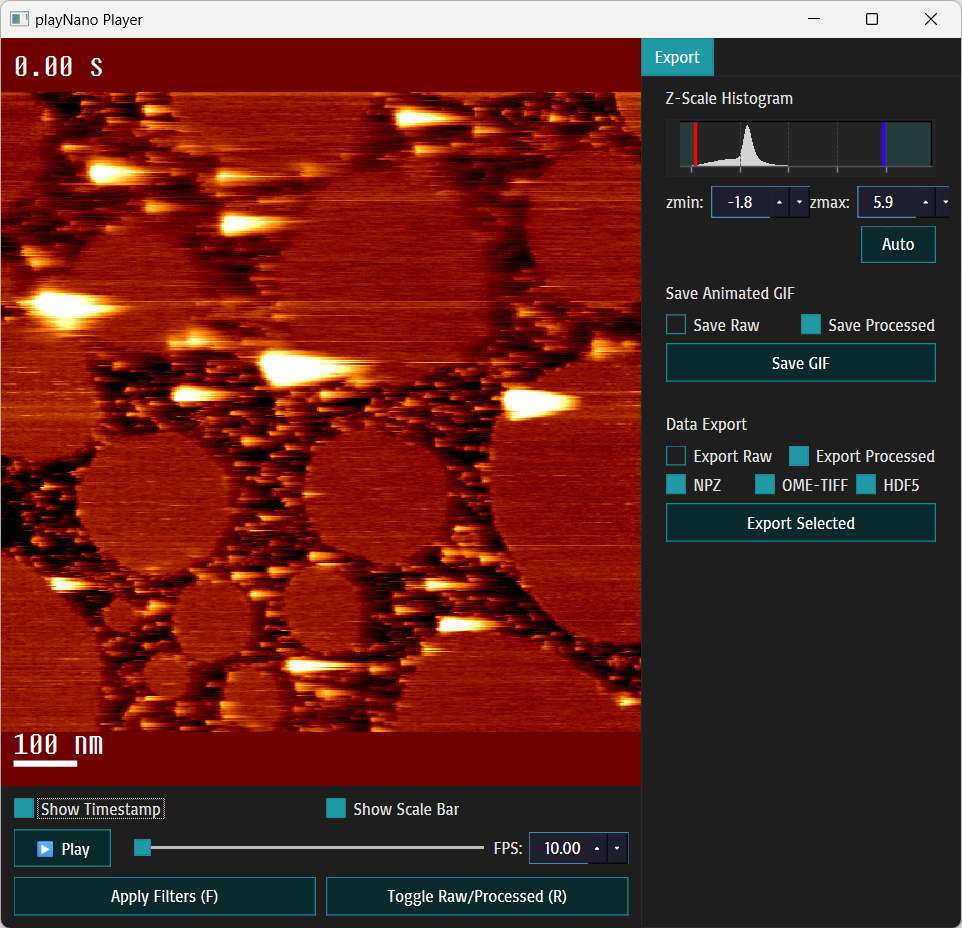
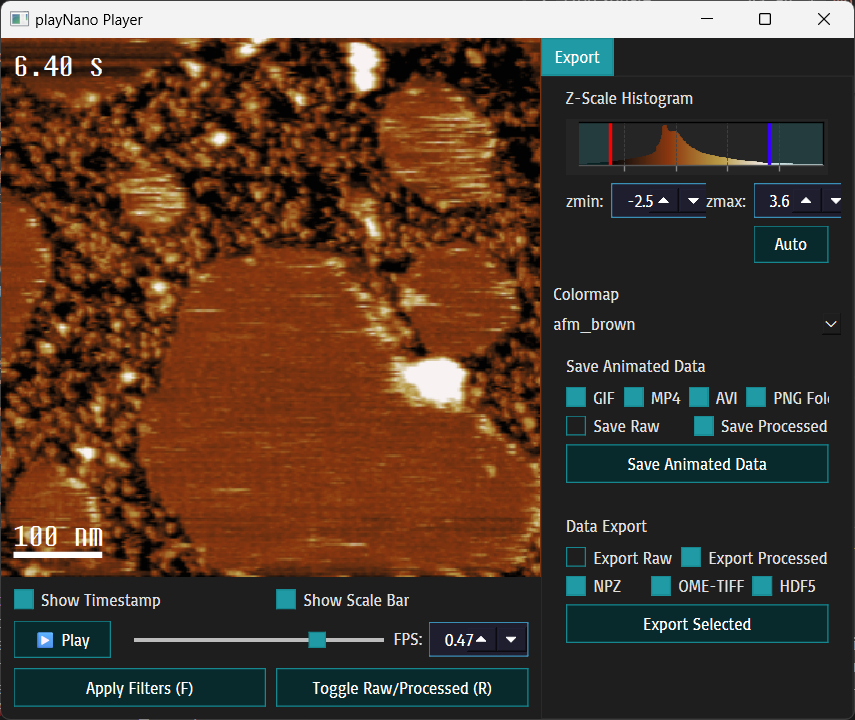
Release v0.4.1.post1 Fix docs, update image links, restore version switcher sidebar.

diff --git a/docs/conf.py b/docs/conf.py
@@ -38,11 +38,25 @@ extensions = [
     "sphinx_multiversion",
 ]
 
+autosummary_generate = True
+exclude_patterns = []
+
 html_theme = "furo"
 templates_path = ["_templates"]
 html_static_path = ["_static"]
 html_js_files = ["version-switcher.js"]
 html_css_files = ["version-switcher.css"]
+
+html_sidebars = {
+    "**": [
+        "sidebar/brand.html",
+        "sidebar/search.html",
+        "sidebar/navigation.html",
+        "sidebar/scroll-start.html",
+        "sidebar/versions.html",
+        "sidebar/scroll-end.html",
+    ]
+}
 
 # Multiversion Selection
 smv_tag_whitelist = r"^v\d+\.\d+.*$"
@@ -62,9 +76,8 @@ def run_apidoc(_):
     module_path = os.path.join(repo_root, "src", "playnano")
 
     # -e: put each module on its own page
-    # --force: overwrite existing files
     # --no-toc: don't overwrite your custom modules.rst
-    main(["-e", "-o", output_path, module_path, "--force", "--no-toc"])
+    main(["-e", "-o", output_path, module_path, "--no-toc"])
 
 
 def _set_title_and_version(app, config):
@@ -171,5 +184,33 @@ def setup(app):
 # ------------------------------------------------------------------------------
 # Nitpick & Intersphinx (Keep your existing full lists here)
 # ------------------------------------------------------------------------------
-nitpick_ignore = [("py:class", "np.ndarray"), ("py:class", "Path")]  # etc...
-intersphinx_mapping = {"python": ("https://docs.python.org/3", None)}
+nitpick_ignore = [
+    ("py:class", "np.ndarray"),
+    ("py:class", "numpy.ndarray"),
+    ("py:class", "json.encoder.JSONEncoder"),
+    ("py:class", "pd.DataFrame"),
+    ("py:class", "lists"),
+    ("py:class", "Axes"),
+    ("py:class", "matplotlib Axes"),
+    ("py:class", "matplotlib.axes._axes.Axes"),
+    ("py:class", "QWidget"),
+    ("py:class", "PySide6.QtWidgets.QWidget"),
+    ("py:class", "QResizeEvent"),
+    ("py:class", "PySide6.QtGui.QResizeEvent"),
+    ("py:class", "QFont"),
+    ("py:class", "PySide6.QtGui.QFont"),
+    ("py:class", "QPaintEvent"),
+    ("py:class", "h5py._hl.group.Group"),
+    ("py:class", "Path"),
+    ("py:class", "pathlib.Path"),
+    ("py:class", "optional"),
+    ("py:class", "callable"),
+    ("py:class", "AnalysisOutputs"),
+    ("py:class", "analysis_record"),
+]
+intersphinx_mapping = {
+    "python": ("https://docs.python.org/3", None),
+    "pandas": ("https://pandas.pydata.org/pandas-docs/stable", None),
+    "matplotlib": ("https://matplotlib.org/stable", None),
+    "qt": ("https://doc.qt.io/qtforpython-6/", None),
+}

diff --git a/src/playnano/processing/video_processing.py b/src/playnano/processing/video_processing.py
@@ -307,7 +307,6 @@ def rolling_frame_align(
 
     pre_filter_sigma : float, optional
         Standard deviation of Gaussian filter applied to both reference and moving
-
         frames prior to cross-correlation. Helps reduce noise. Default is None.
 
     max_jump : int, optional
@@ -335,8 +334,9 @@ def rolling_frame_align(
         - "pre_filter_sigma": float or None
         - "max_shift": int or None
         - "max_jump": int or None
-          debug_outputs : dict, optional
-        Returned only if `debug=True`. Contains:
+
+    debug_outputs : dict, optional
+          Returned only if `debug=True`. Contains:
         - "shifts": copy of the detected shifts array
         - "aligned_refs": deque of indices used for rolling reference
 

diff --git a/src/playnano/cli/actions.py b/src/playnano/cli/actions.py
@@ -358,7 +358,7 @@ def play_pipeline_mode(
                 f"Computed fps from line_rate: {fps:.2f} (line_rate={line_rate}, image_shape={afm_stack.image_shape})"  # noqa
             )
     else:
-        logger.debug(f"Overiding data frame rate. FPS = {fps:.2f}.")
+        logger.debug(f"Overriding data frame rate. FPS = {fps:.2f}.")
 
     if processing_file:
         steps_with_kwargs = parse_processing_file(processing_file)

diff --git a/README.md b/README.md
@@ -95,9 +95,11 @@ For development setup see [CONTRIBUTING.md](CONTRIBUTING.md).
 
 **Play a file (GUI):**
 
+<!-- markdownlint-disable MD013 -->
 <p align="center">
-  <img src="docs/images/GUI_window.png" alt="playNano GUI main window" width="400" />
+  <img src="https://github.com/derollins/playNano/raw/main/docs/images/GUI_window.png" alt="playNano GUI main window" width="400" />
 </p>
+<!-- markdownlint-enable MD013 -->
 
 ```bash
 playnano play ./tests/resources/sample_0.h5-jpk # This command opens example data if run in the project root
@@ -129,18 +131,22 @@ discontinuities, while retaining the classic orange-brown AFM character. The pac
 monotone-lightness high-contrast colormap spanning the full luminance range (L* 0–100) for complex, feature-rich samples,
 and `classic_afm`, a non-linear map replicating the common brown AFM colormap for continuity with existing workflows.
 
+<!-- markdownlint-disable MD013 -->
 <p align="center">
-  <img src="docs/images/native_colormaps.png" alt="playNano native colormaps" width="400" />
+  <img src="https://raw.githubusercontent.com/derollins/playNano/main/docs/images/native_colormaps.png" alt="playNano native colormaps" width="400" />
 </p>
+<!-- markdownlint-enable MD013 -->
 
 All three colormaps are registered globally on import as `matplotlib` cmaps, making them available across the entire
 toolkit and in your own scripts alongside built-in options such as `afmhot` and `viridis`.
 
 ## 📒 Notebooks
 
+<!-- markdownlint-disable MD013 -->
 <p align="center">
-  <img src="docs/images/notebook_capture.png" alt="playNano demonstration notebook" width="400" />
+  <img src="https://github.com/derollins/playNano/raw/main/docs/images/notebook_capture.png" alt="playNano demonstration notebook" width="400" />
 </p>
+<!-- markdownlint-enable MD013 -->
 
 To access and use the [Notebooks](https://derollins.github.io/playNano/main/notebooks.html) you need to clone the
 repository and install the required dependencies `pip install -e .[notebooks]` see the docs page for more
@@ -200,7 +206,7 @@ If you use **playNano** in academic work, please cite it as:
 <summary>Show BibTeX</summary>
 
 ```bibtex
-@misc{rollins2025playnano,
+@misc{rollins2026playnano,
   author = {Rollins, D. E.},
   title  = {playNano: AFM Video Processing and Analysis Toolkit},
   year   = {2026},
@@ -228,5 +234,5 @@ This project bundles the following fonts:
 
 Full license texts and attribution are provided in:
 
-- `src/playnano/fonts/Steps-Mono/LICENCE.txt`
-- `src/playnano/fonts/Basic/LICENCE.txt`
+- `src/playnano/resources/fonts/Steps-Mono/LICENSE.txt`
+- `src/playnano/resources/fonts/basic/LICENSE.txt`

diff --git a/CHANGELOG.md b/CHANGELOG.md
@@ -8,6 +8,22 @@ and this project adheres to [Semantic Versioning](https://semver.org/spec/v2.0.0
 
 ## [Unreleased]
 
+## [0.4.0.post1] - 2026-05-12
+
+### Documentation
+
+- Fixed font asset paths in README (`src/playnano/fonts/` → `src/playnano/resources/fonts/`).
+- Corrected BibTeX citation key year (2025 → 2026).
+- Added `playnano.io.render_utils` to the API reference toctree.
+- Fixed underline lengths for "Video Export Options (CLI)" and "Image Sequence Export Options (CLI)" sections in `exporting.rst`.
+- Restored `html_sidebars` configuration for the version switcher in `conf.py`.
+- Restored full `nitpick_ignore` and `intersphinx_mapping` lists truncated during `conf.py` cleanup.
+- Added `autosummary_generate = True` and `exclude_patterns = []` to `conf.py`.
+- Added `whats_new/v0.4.0.md` release notes page.
+- Updated README image links to absolute raw GitHub URLs so images render correctly on PyPI.
+
+### No code changes
+
 ## [0.4.0] - 2026-05-11
 
 ### Added
@@ -458,3 +474,4 @@ This release introduces video processing, stack editing, multi-version documenta
 [0.3.0]: https://github.com/derollins/playNano/releases/tag/v0.3.0
 [0.3.1]: https://github.com/derollins/playNano/releases/tag/v0.3.1
 [0.4.0]: https://github.com/derollins/playNano/releases/tag/v0.4.0
+[0.4.0.post1]: https://github.com/derollins/playNano/releases/tag/v0.4.0.post1

diff --git a/docs/exporting.rst b/docs/exporting.rst
@@ -215,7 +215,7 @@ format, and support the same annotations and colourmap options as GIFs.
 - **Scale bar** — physical calibration (default 100 nm) derived from per-frame pixel size metadata.
 
 Video Export Options (CLI)
-^^^^^^^^^^^^^^^^^^^^^^^^
+^^^^^^^^^^^^^^^^^^^^^^^^^^
 
 .. code-block:: bash
 
@@ -274,7 +274,7 @@ publications or for importing into external tools.
   drawn onto each frame if enabled in the GUI.
 
 Image Sequence Export Options (CLI)
-^^^^^^^^^^^^^^^^^^^^^^^^
+^^^^^^^^^^^^^^^^^^^^^^^^^^^^^^^^^^^
 
 .. code-block:: bash
 

diff --git a/docs/api/modules.rst b/docs/api/modules.rst
@@ -20,6 +20,7 @@ API Reference
    playnano.io.data_loaders
    playnano.io.export_data
    playnano.io.gif_export
+   playnano.io.render_utils
    playnano.io.formats
    playnano.io.formats.read_asd
    playnano.io.formats.read_h5jpk

diff --git a/docs/api/playnano.io.render_utils.rst b/docs/api/playnano.io.render_utils.rst
@@ -1,0 +1,7 @@
+playnano.io.render\_utils module
+================================
+
+.. automodule:: playnano.io.render_utils
+   :members:
+   :show-inheritance:
+   :undoc-members:
